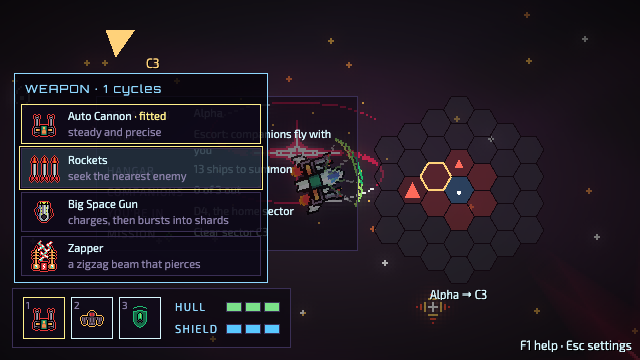
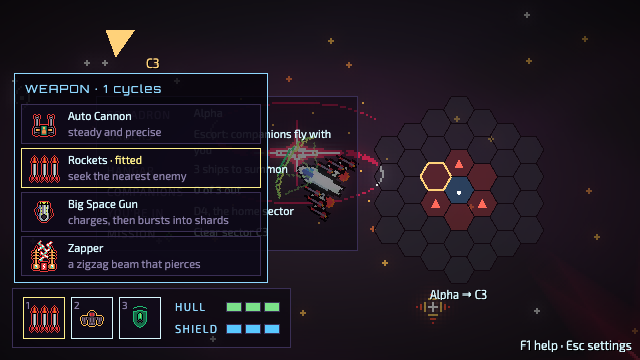
Describe a tap of 1, 2 or 3 in the docs, with a new screenshot

diff --git a/docs/design.md b/docs/design.md
@@ -293,7 +293,7 @@ As built in milestone 3 (#4), Scouts and Fighters, held in garrisons since #99 a
   - **The full map** toggles on M (Tab until #167 decision 7), with Esc closing it too. It adds the sector names, a title with ring 1's progress, and a legend. While it's open the world runs on, the ship holds still, and the HUD hides. A click on an uncleared sector sends your squadron there.
 - Camera follows the player, parallax backgrounds from the Environment pack. No texture is over 4096 px, so older GPUs hold them all (#222): the void's frames are a 3 x 3 grid; each stars layer is one still piece plus the regions that animate, drawn into a 640 x 360 texture the layer tiles; the planet is cropped to its glow and laid out 9 to a row; the Dreadnoughts' strips keep each different frame once, cropped around its center, and each animation lists the frames it plays, so it plays the pack's exactly (#236) (`cmd/cutsheets`).
 - **Home planet** at the center of D4 (Environment planet). Spawn point, safe zone, where companions are summoned.
-- **Switching parts** (#191, replacing #78's loadout screen): anywhere, in a fight too. A tap of **1**, **2** or **3** cycles the weapon, engine or shield through the parts the player owns (`nextPart`), on the key's release; on a development server, and offline, they cycle every part. A click or tap on one of the gauge's slots (#91) opens a drop-up of that slot's owned parts above it, their icons in one column with the slot's, each with its name in its tier's color and a few words on what it does (`PART_HINTS`); a click on one fits it, and Esc or a click elsewhere closes it. Holding the slot's key for 250 ms (`PART_HOLD_MS`) opens the same drop-up without cycling (#259). While it's open, a tap of its key fits the next part at once and the list stays; Up and Down move a highlight, starting on the fitted part, and Enter fits it; Esc closes it. Another slot's tap cycles that slot and closes the list, and its hold opens that slot's list instead. A list the keys have acted on closes by itself 2 s after the last key press (`PART_LIST_IDLE_MS`); one only the pointer has used stays until closed. A new weapon waits out a half-second swap before it fires (`WeaponSwapSeconds`). The server saves any loadout made of owned parts, wherever it's fitted, and a player's next visit starts with it.
+- **Switching parts** (#191, replacing #78's loadout screen): anywhere, in a fight too. A tap of **1**, **2** or **3** cycles the weapon, engine or shield through the parts the player owns (`nextPart`), on key-down; on a development server, and offline, they cycle every part. A click or tap on one of the gauge's slots (#91) opens a drop-up of that slot's owned parts above it, their icons in one column with the slot's, each with its name in its tier's color and a few words on what it does (`PART_HINTS`); a click on one fits it, and Esc or a click elsewhere closes it. A tap of a key also opens that slot's drop-up, which shows the fitted part (#259). Each next tap fits the next part, and the list stays open. It closes 2 s after the last tap (`PART_LIST_IDLE_MS`), or at once on Esc. Another slot's key switches that slot and opens its list instead. A held key does nothing more. A list only the pointer has used stays until it is closed. A new weapon waits out a half-second swap before it fires (`WeaponSwapSeconds`). The server saves any loadout made of owned parts, wherever it's fitted, and a player's next visit starts with it.
 - **Three rings** around it, bands of sectors by distance from home:
   1. Kla'ed space: the 6 sectors around home
   2. Nairan space: the next 12

diff --git a/README.md b/README.md
@@ -50,8 +50,7 @@ From a checkout, `go run ./cmd/voidmarch -new-season` resets the file at
 | Mouse | Aim |
 | Left button (hold) | Fire |
 | G | Draw a companion from the hangar (at the home planet) |
-| 1 / 2 / 3 (tap) | Cycle the weapon / engine / shield through the parts you own, anywhere; a new weapon fires after a half-second swap |
-| 1 / 2 / 3 (hold) | That slot's list of parts: taps of its key keep switching, Up and Down move a highlight and Enter fits it, Esc closes it, and it closes by itself 2 s after the last key |
+| 1 / 2 / 3 | Tap to switch the weapon / engine / shield to the next part you own, anywhere. The slot's list shows for 2 s after the last tap; Esc closes it. A new weapon fires after a half-second swap |
 | Click a part slot | Bottom left: a list of that slot's parts above it; click one to fit it, Esc or a click elsewhere closes it |
 | M | Full map: click an uncleared sector to send your squadron there; M or Esc closes it |
 | Tab (hold) | The season so far: the top players by kills, and you, while held |
@@ -258,10 +257,10 @@ collect it for your whole squadron, wherever they are. A part you don't have
 is yours for good; one you have goes up a tier, Super, Mega, then Hyper,
 each about 15% stronger, shown in blue, violet and gold. A pickup glows in the
 tier it would give you, blinks after 20 s and is gone at 30 s. Switch parts
-anywhere, in a fight too: a tap of **1**, **2** or **3** cycles the weapon,
-engine or shield through the parts you own. Hold the key, or click a slot in
-the gauge, for that slot's list; while it's open, taps of the key keep
-switching, and a list the keys have used closes 2 s after the last key.
+anywhere, in a fight too. Tap **1**, **2** or **3** to switch the weapon,
+engine or shield to the next part you own. The slot's list of parts shows
+for 2 s after the last tap. You can also click a slot in the gauge for its
+list.
 A newly fitted weapon fires after a half-second swap. The server remembers
 what you fitted.
 
